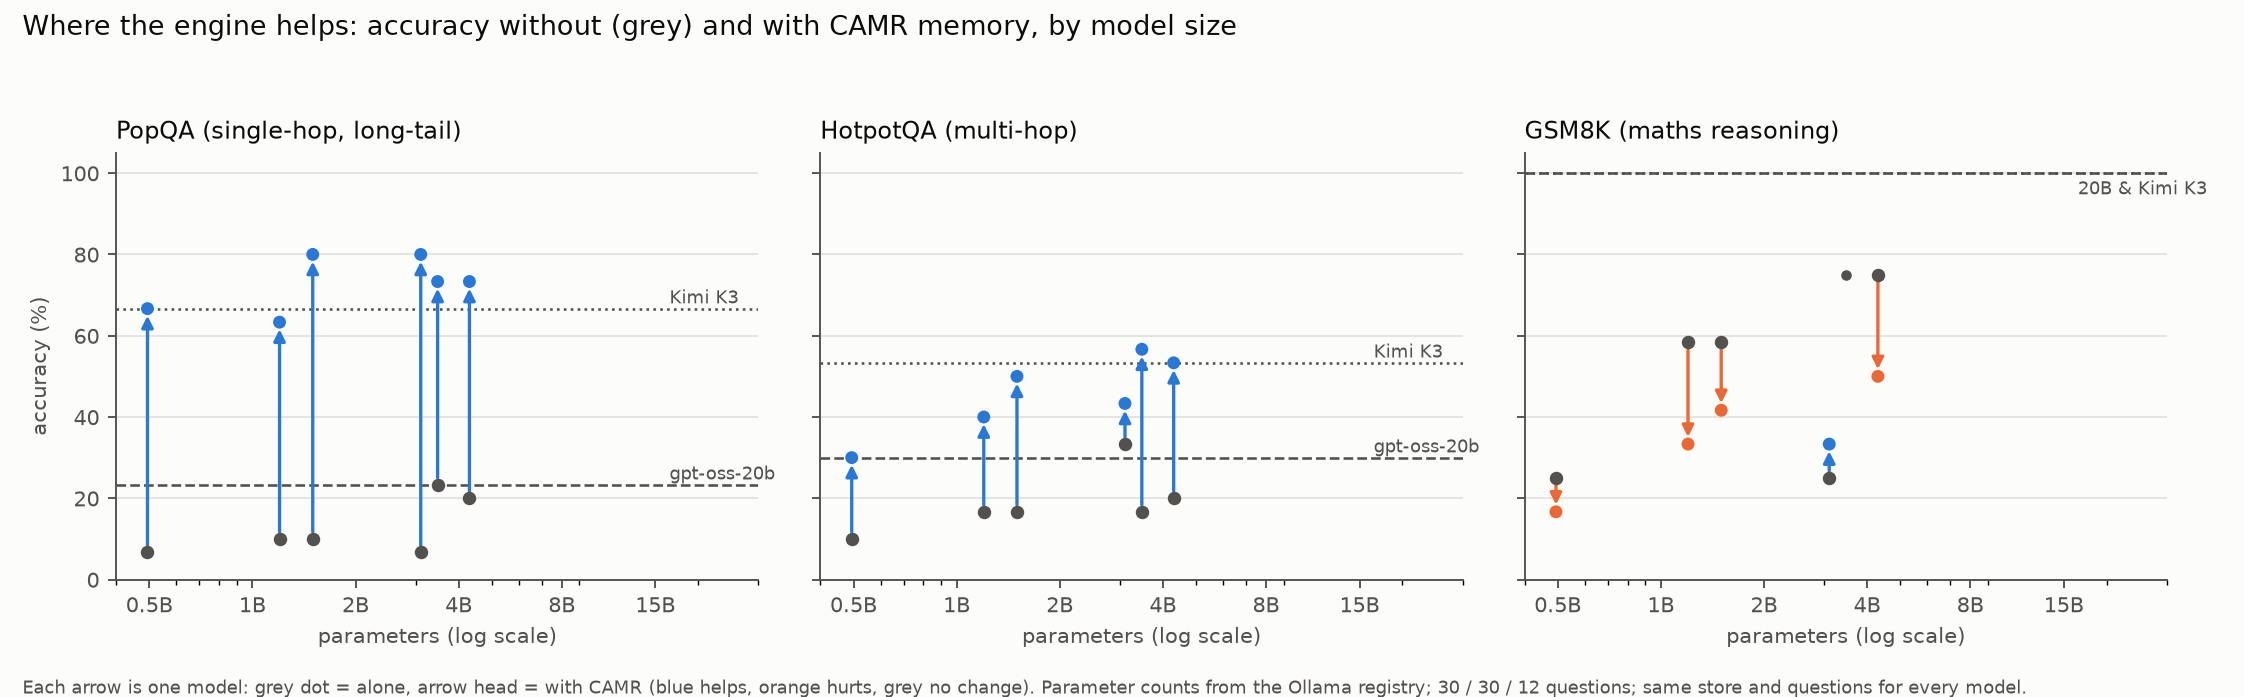
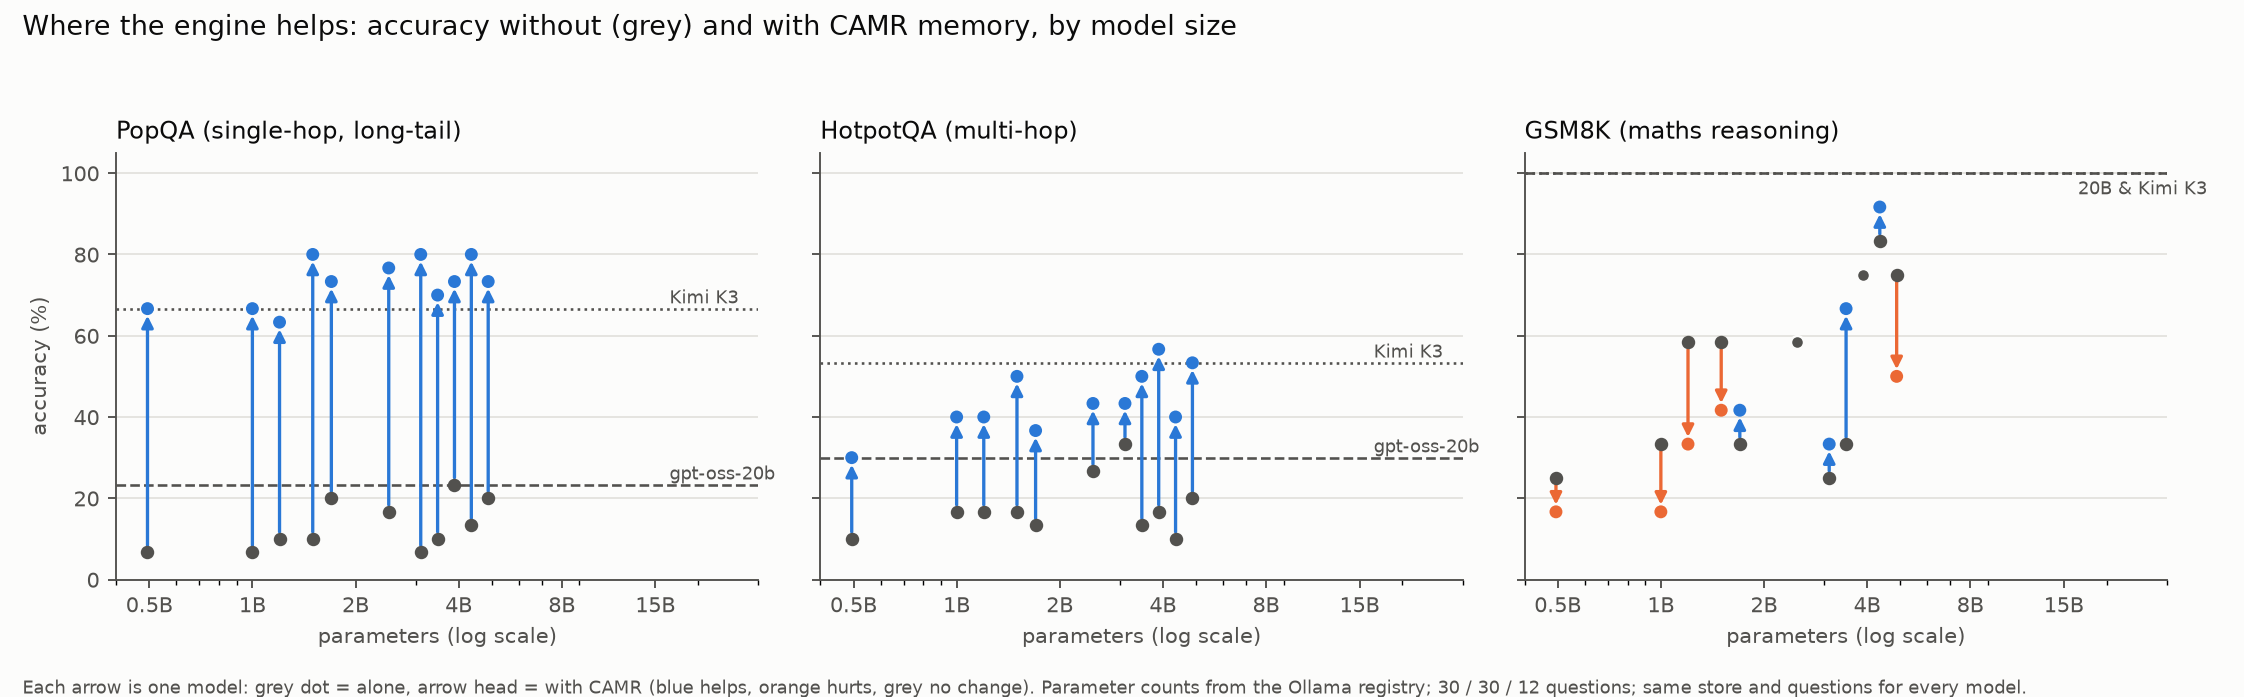
Findings F10: add machine C models (gemma3:1b, smollm2, granite3.3:2b, falcon3:3b, phi4-mini)

diff --git a/docs/FINDINGS.md b/docs/FINDINGS.md
@@ -229,7 +229,7 @@ Source: `results/pilot/camr.sqlite` (labels `main`, `kimi`, `kimi-k2.6`) and `ta
 
 ---
 
-## F10. Which model sizes suit the engine (model sweep, machine E; more machines pending)
+## F10. Which model sizes suit the engine (model sweep, machines E and C; B and D pending)
 
 Source: `sweep_results/machine-e.sqlite`, merged into `results/pilot/camr.sqlite`; `results/pilot/tables/model_sweep.json`. Same store, same questions and same ceilings for every model. Parameter counts and quantisation are from the Ollama registry (`docs/model_registry_metadata.json`).
 
@@ -243,13 +243,21 @@ Source: `sweep_results/machine-e.sqlite`, merged into `results/pilot/camr.sqlite
 | llama3.2:3b (3.2B, Q4_K_M) | 23.3 → 73.3% | 16.7 → **56.7%** | 75.0 → 75.0% | 11.8 → 10.4 |
 | qwen2.5:3b (3.1B, Q4_K_M) | 6.7 → **80.0%** | 33.3 → 43.3% | 25.0 → 33.3% | 13.3 → 11.0 |
 | gemma3:4b (4.3B, Q4_K_M) | 20.0 → 73.3% | 20.0 → 53.3% | 75.0 → 50.0% | 9.9 → 9.1 |
+| gemma3:1b (1.0B, Q4_K_M) ᶜ | 6.7 → 66.7% | 16.7 → 40.0% | 33.3 → 16.7% | 24.9 → 23.9 |
+| smollm2:1.7b (1.7B, Q8_0) ᶜ | 20.0 → 73.3% | 13.3 → 36.7% | 33.3 → 41.7% | 15.2 → 13.8 |
+| granite3.3:2b (2.5B, Q4_K_M) ᶜ | 16.7 → 76.7% | 26.7 → 43.3% | 58.3 → 58.3% | 14.2 → 12.2 |
+| falcon3:3b (3.2B, Q4_K_M) ᶜ | 10.0 → 70.0% | 13.3 → 50.0% | 33.3 → **66.7%** | 14.2 → 14.5 |
+| phi4-mini:3.8b (3.8B, Q4_K_M) ᶜ | 13.3 → **80.0%** | 10.0 → 40.0% | 83.3 → **91.7%** | 12.6 → 10.7 |
 | *Kimi K3 (cloud), no memory* | *66.7%* | *53.3%* | *100%* | — |
+
+ᶜ Machine C (Intel Xeon @ 2.80 GHz; the others @ 2.10 GHz): accuracies are comparable across machines, decode speeds are not.
 
 **Findings**
 1. **From about 1.5B parameters, a small model with CAMR beats Kimi K3 on long-tail facts** (73–80% vs 66.7%). Measured against Kimi, gap closed is 1.14–1.24.
 2. **On multi-hop, about 3B is the threshold.** llama3.2:3b + CAMR reached 56.7% and gemma3:4b + CAMR 53.3%, against Kimi K3's 53.3%. Below 3B the gain is real (+20 to +33 pts) but the models do not reach Kimi.
 3. **Knowledge gains are large at every size** (+50 to +73 pts on PopQA), but the 0.5B model is the weakest *reader*. It gains least on multi-hop (+20) and is most hurt by extra notes (F8 budget sweep).
-4. **Worked-example (exemplar) memory for maths hurts four of six models.** It is neutral for llama3.2:3b and helps only qwen2.5:3b (+8.3). The effect depends on the model family, not just its size, so reasoning routing must be learned per model.
+4. **Worked-example (exemplar) memory for maths depends on the model family, not its size.** Across 11 models it **helps 4**: falcon3:3b +33.3, phi4-mini +8.3, smollm2 +8.3, qwen2.5:3b +8.3. It is **neutral for 2** (llama3.2:3b, granite3.3:2b) and **hurts 5** (qwen2.5 0.5B/1.5B, llama3.2:1b, gemma3 1B/4B). With exemplars, phi4-mini (3.8B) reaches 91.7% on GSM8K. Reasoning routing must therefore be learned *per model*, which is exactly what the learned policy (F11) does.
+6. **Every one of the 11 models gains on knowledge tasks** (+50 to +73 pts on PopQA, +20 to +40 on HotpotQA). Eight of 11 reach or beat Kimi K3 on long-tail facts with CAMR.
 5. **Decode speed slows 3–17% with memory** (e.g. qwen2.5:3b 13.3 → 11.0 tokens/s). The weights are untouched; the slowdown comes from attending over a longer prompt. This corrects the "decode speed unaffected" reading of F2: there is a measurable, bounded per-token cost.
 
 ---
